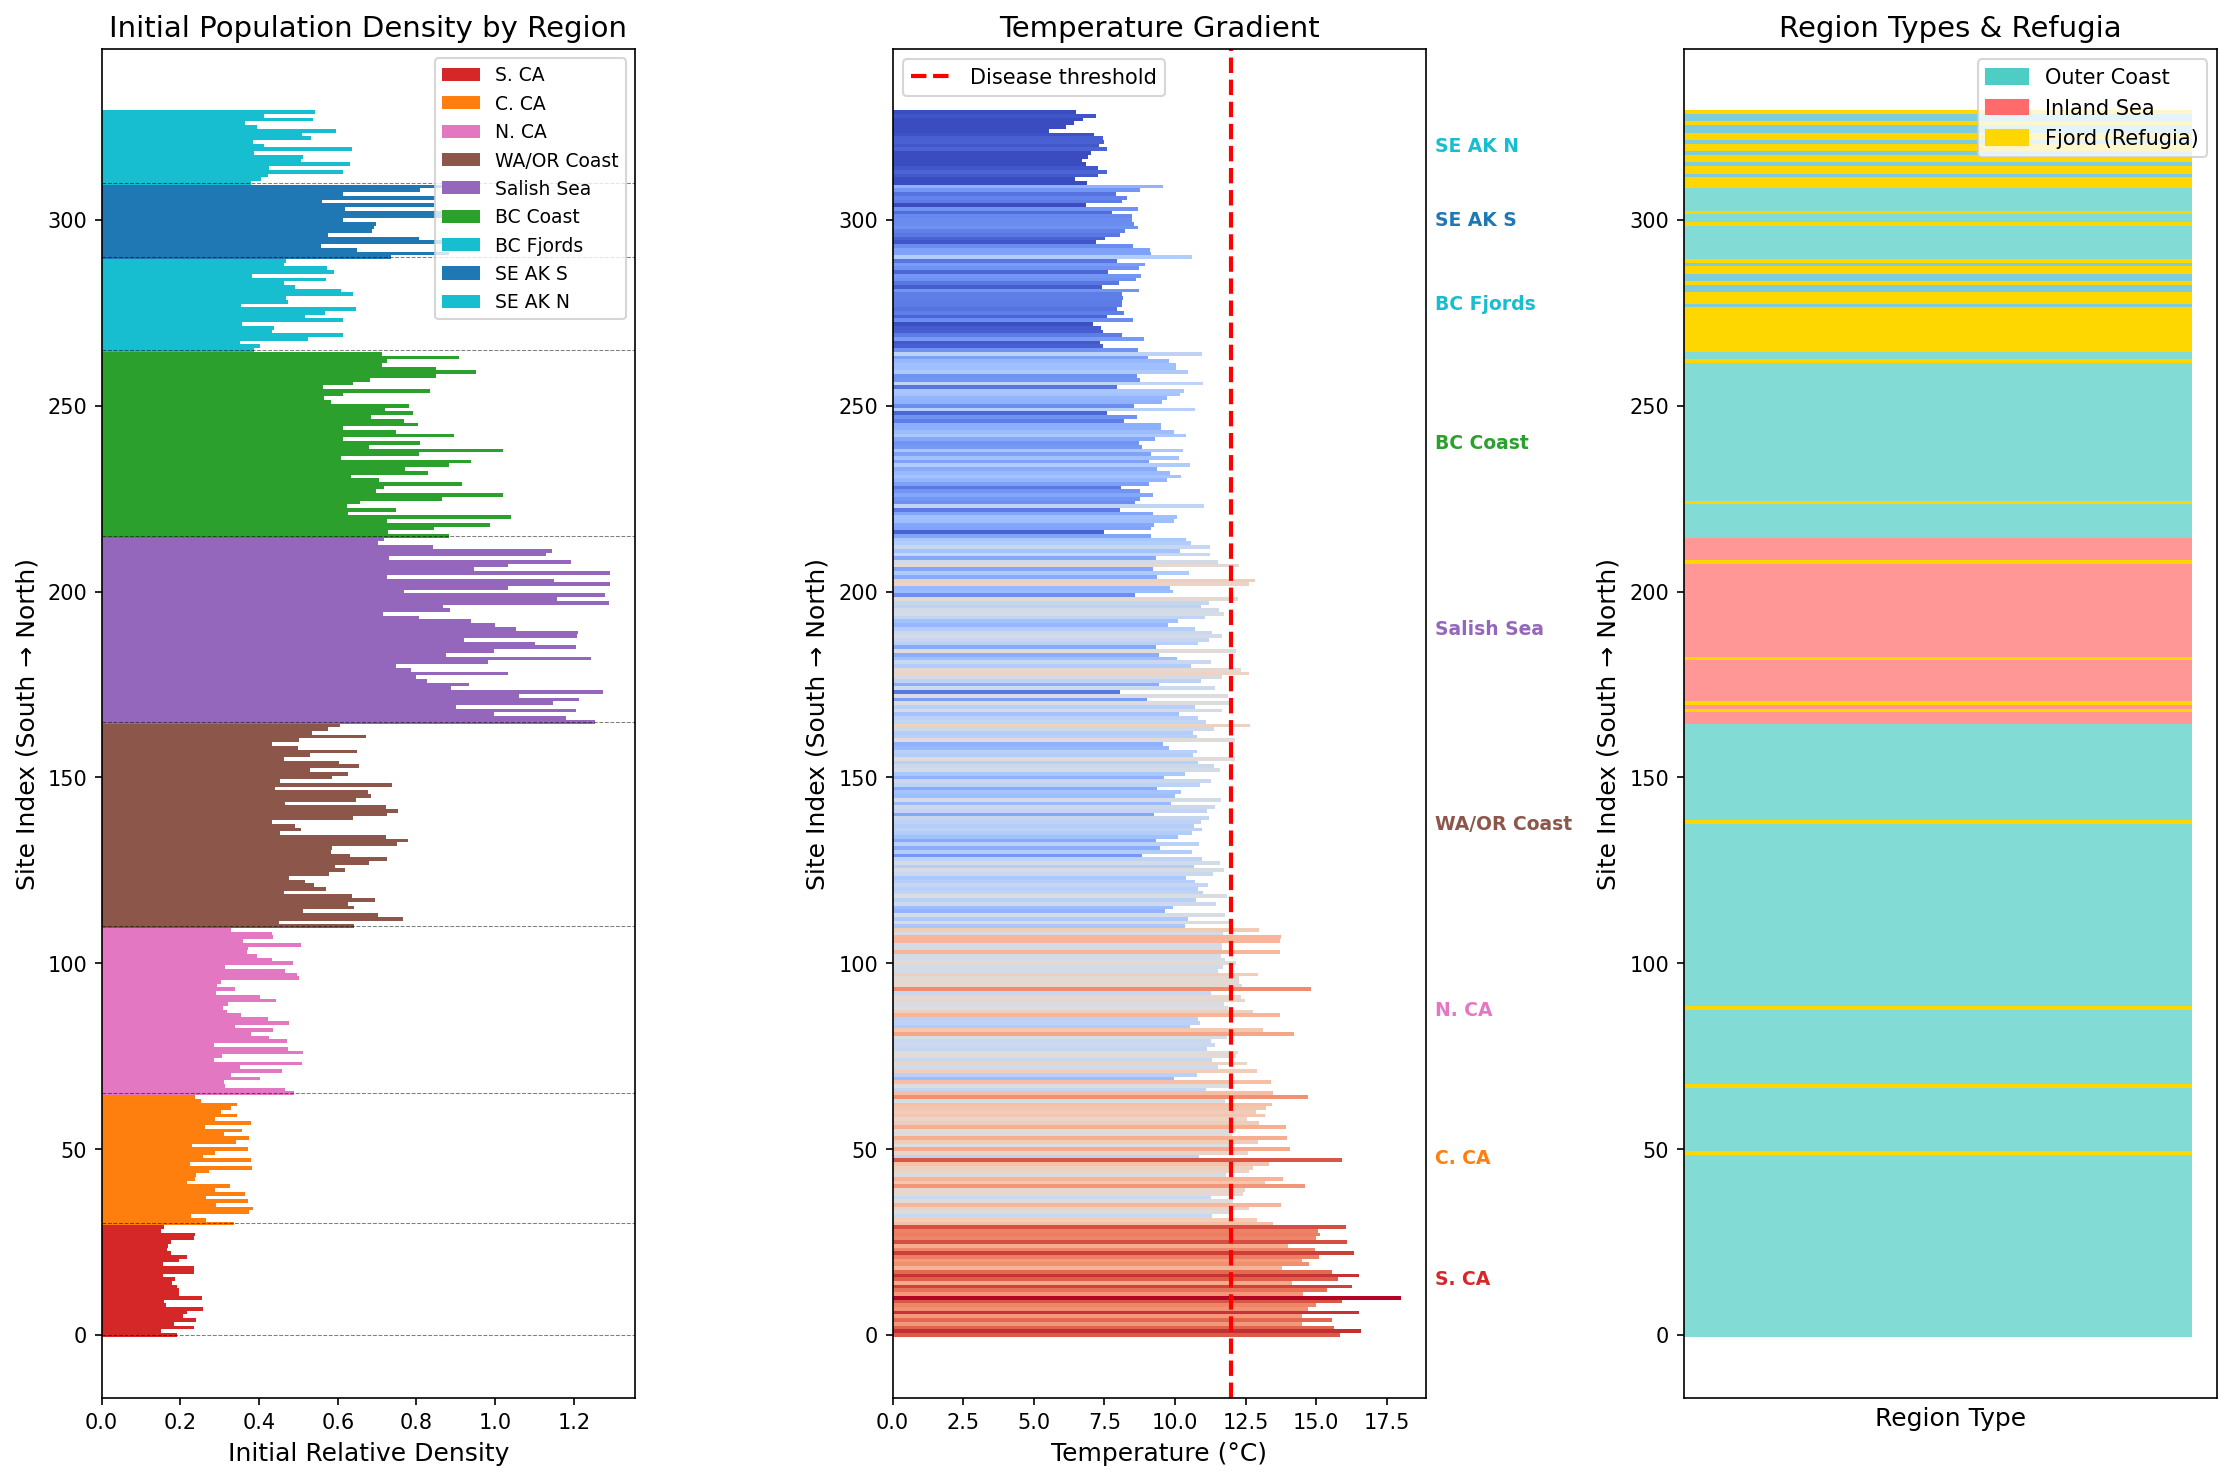
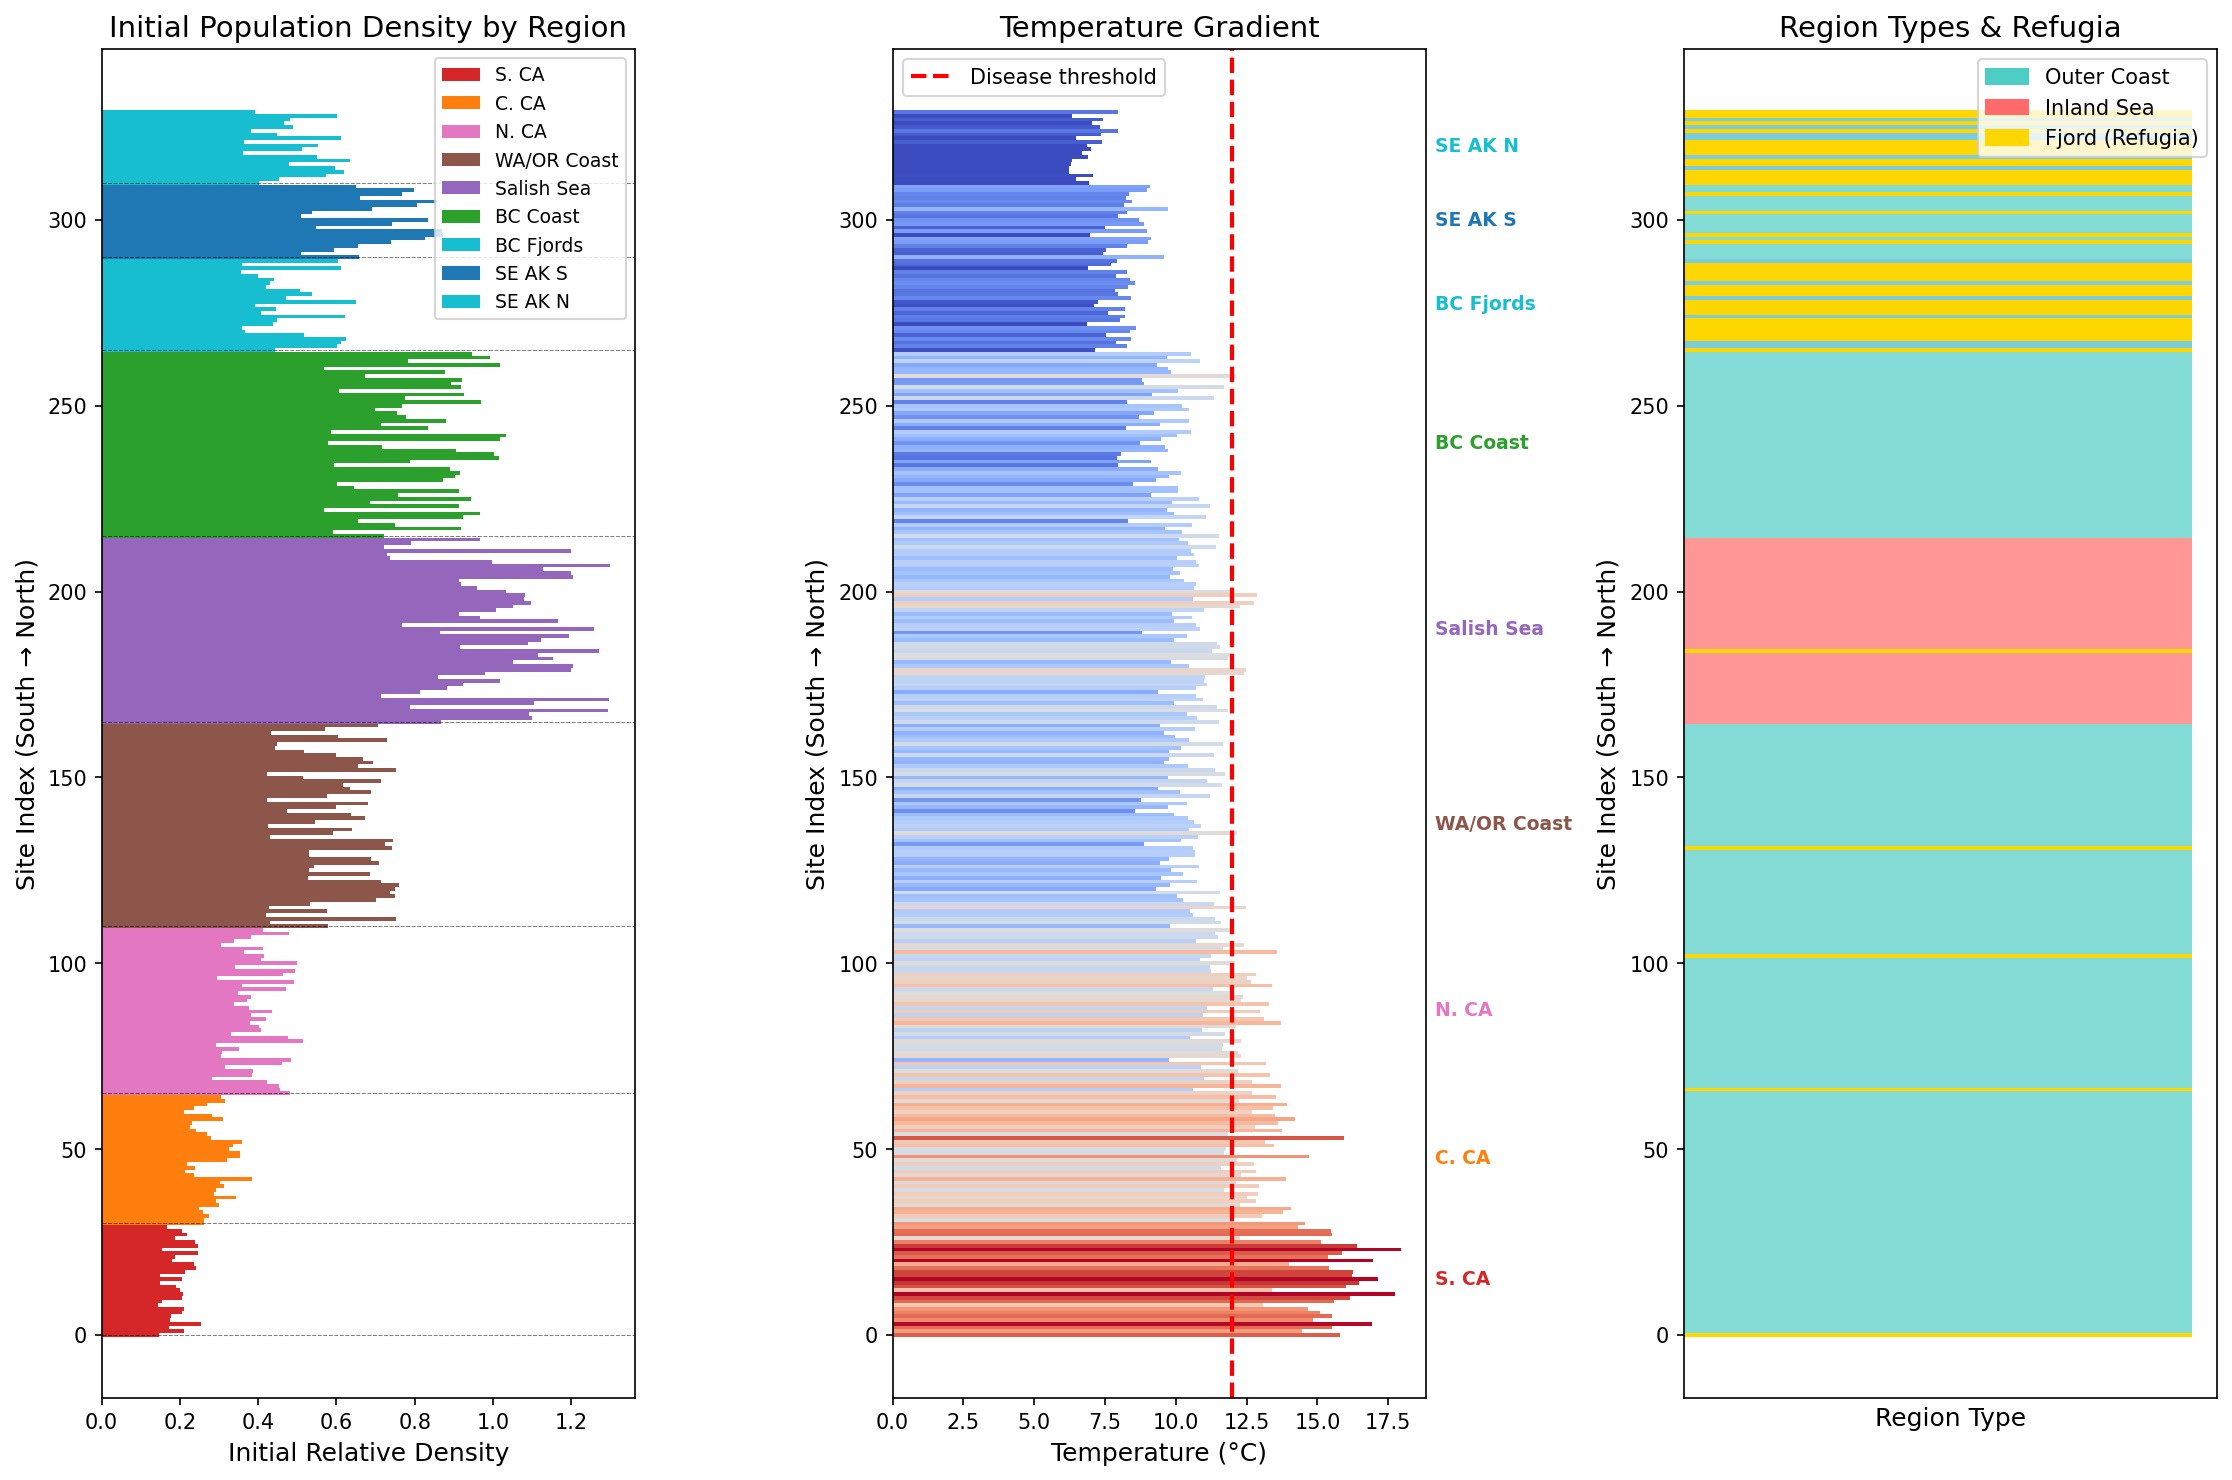
fix: fast disease spread (2-3yr coast-wide), acute outbreak model, fjord isolation

diff --git a/pycnopodia/pacific_coast.py b/pycnopodia/pacific_coast.py
@@ -210,7 +210,7 @@ class PacificCoastConfig:
     # Tuned to produce ~90% range-wide decline with temperature-dependent mortality
     # Alaska (cold) keeps ~40%, BC Fjords (refugia) ~50%, south ~0%
     disease_base_mortality: float = 0.85  # Base per-year mortality at threshold temp (acute phase)
-    disease_transmission_rate: float = 0.60
+    disease_transmission_rate: float = 1.20  # Fast coastal spread
     disease_endemic_prevalence: float = 0.03  # Low background after acute phase
     disease_acute_years: int = 3  # Acute outbreak lasts ~3 years
     
@@ -228,7 +228,7 @@ class PacificCoastConfig:
     
     # Connectivity decay
     larval_dispersal_scale: float = 8.0  # Sites (e-folding distance)
-    disease_dispersal_scale: float = 15.0  # Wider for disease
+    disease_dispersal_scale: float = 30.0  # Very wide — SSWD spread entire coast in ~2yr
     
     # Within-region vs between-region connectivity
     within_region_weight: float = 0.6
@@ -299,7 +299,7 @@ def build_sites(config: PacificCoastConfig, rng: np.random.Generator = None) -> 
             if region.region_type == RegionType.FJORD:
                 refugia_prob = 0.70  # Many deep-water refugia in fjords
             elif region.short_name == "SE AK N":
-                refugia_prob = 0.25  # Northern fjord refugia
+                refugia_prob = 0.35  # Northern fjord refugia
             elif region.short_name == "SE AK S":
                 refugia_prob = 0.15  # Some deep-water refugia
             elif region.region_type == RegionType.INLAND_SEA:
@@ -538,9 +538,9 @@ def build_disease_connectivity_matrix(
             source_inland = source_region.region_type in inland_types
             target_inland = target_region.region_type in inland_types
             
-            # Crossing inland/outer boundary - reduced transmission
+            # Crossing inland/outer boundary - strongly reduced transmission
             if source_inland != target_inland:
-                D[i, j] = base_weight * 0.1 * temp_mod
+                D[i, j] = base_weight * 0.02 * temp_mod
             else:
                 # Within outer coast - moderate spread
                 D[i, j] = base_weight * 0.4 * temp_mod

diff --git a/run_pacific_coast.py b/run_pacific_coast.py
@@ -1215,7 +1215,7 @@ def main():
     # Run main simulation
     print("\n🌊 Running simulation...")
     config = PacificCoastConfig(n_years=100)
-    sim = PacificCoastSimulation(config, seed=42)
+    sim = PacificCoastSimulation(config, seed=43)
     result = sim.run()
     
     print(f"  Completed: {len(result.sites)} sites, {len(result.states)} years")
